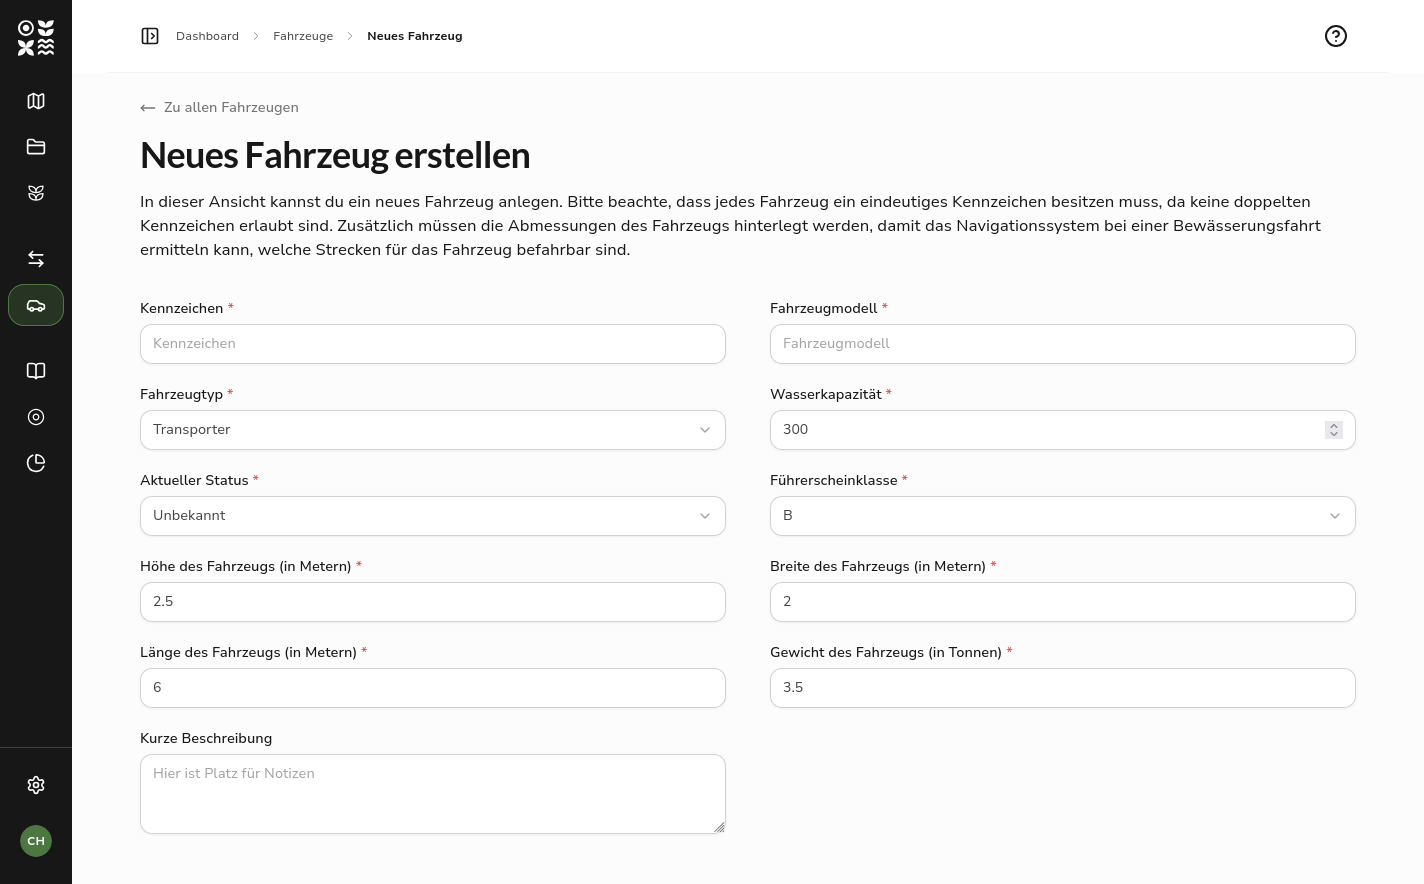
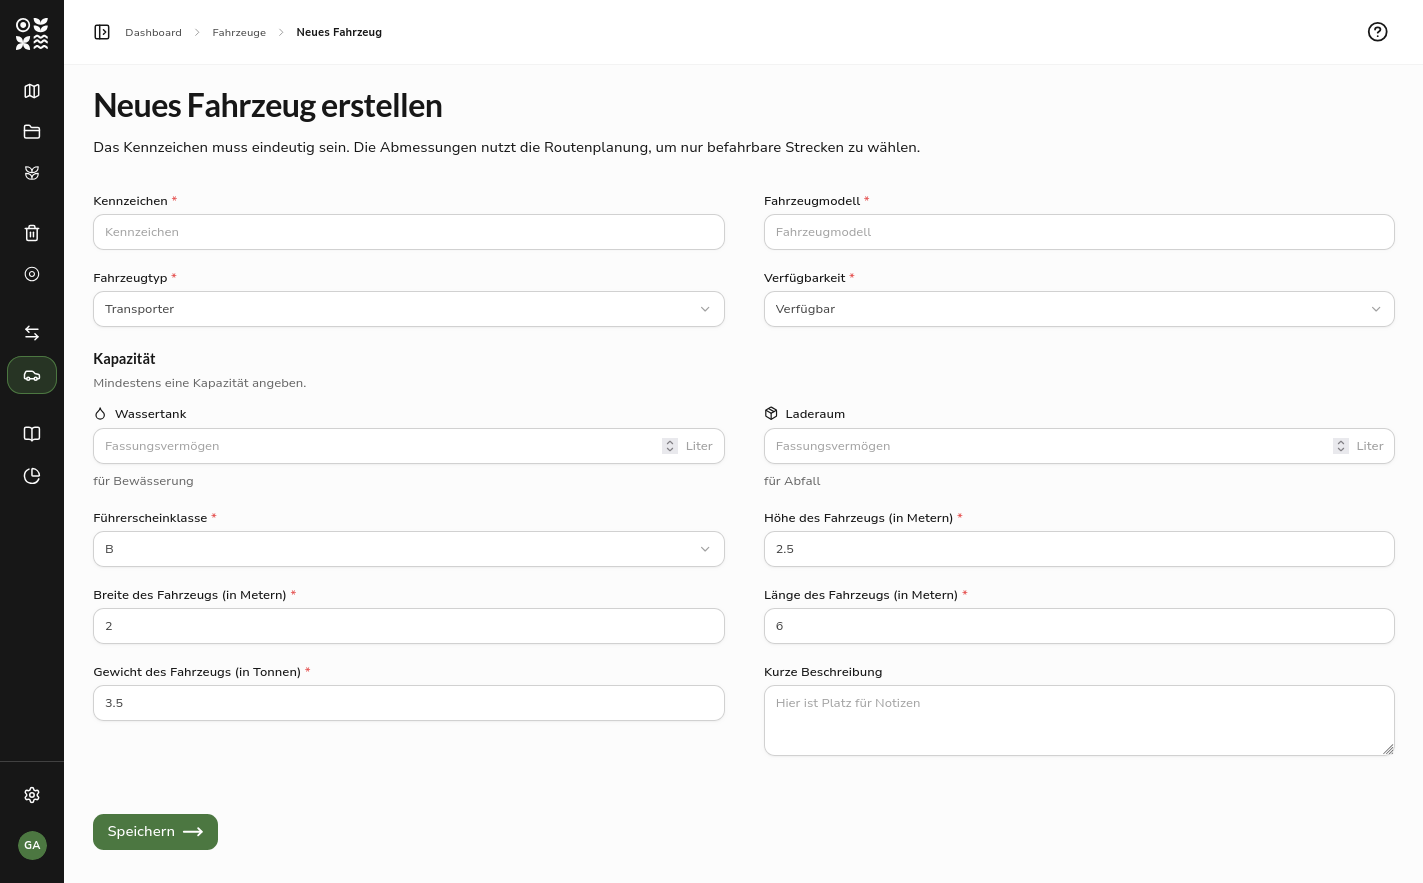
docs(handbook): re-shoot the vehicle form with capacities of the active modules

diff --git a/frontend/handbook/images/README.md b/frontend/handbook/images/README.md
@@ -105,12 +105,9 @@ be re-shot under the capture conditions above.
 - `dashboard.png`: while more than one module draws on the map or plans, the cards "Karte"
   and "Einsatzpläne" show the neutral core description instead of the irrigation wording.
   Re-shoot only if the capture instance has the waste module switched on.
-- `vehicle-form.png` shows water capacity as the only, required capacity with the old
-  default of 300 liters. The form now groups the capacities in a "Kapazität" section that
-  lists only the kinds of the modules active in the vehicle's organization (Wassertank and
-  Laderaum, each with a "Liter" suffix and a "für <Modul>" line); the fields start empty.
-  It needs a re-shoot. `settings-stations.png` and `settings-station-form.png` stay valid
-  as long as both modules are active in the captured organization.
+- `settings-stations.png` and `settings-station-form.png` stay valid as long as both
+  modules are active in the captured organization: the station dialog only offers the
+  capacity kinds of the modules active there.
 - `treecluster-dashboard.png` shows the old "Sensorik", "Bäume" and
   "Bewässerungshistorie" cards. All three are now compact divided lists: sensor rows with
   one line of signal, battery and last transmission, a tree list collapsed to three rows
@@ -147,7 +144,7 @@ be re-shot under the capture conditions above.
 | `waste-bin-detail.png`               | 1440×900  | Abfallbehälter und Leerungstouren (`waste-bins`)       | The detail page of a bin with a linked sensor and a measurement: "Stammdaten" and the "Füllstand" block with Füllstufe, percentage, last measurement, last emptying (here "Noch nicht geleert") and the sensor link filled in, the start of the comments below.                                                                                                                                                                                                                                                                                                                                                            |
 | `waste-plan-outcome.png`             | 1440×900  | Abfallbehälter und Leerungstouren (`waste-bins`)       | The finish dialog of an active collection tour with several bins, each with its "geleert" switch, at least one switched off, and the optional litres field filled in for one bin.                                                                                                                                                                                                                                                                                                                                                                                                                                          |
 | `vehicle-list.png`                   | 1440×900  | Fahrzeuge (`vehicles`)                                 | The vehicle list with a search term entered so the matches are highlighted and the result line reads "X von Y Sensoren"; the row shows the coloured status dot in front of the number plate (no status badge) and, at this width, the driving-licence class.                                                                                                                                                                                                                                                                                                                                                               |
-| `vehicle-form.png`                   | 1440×900  | Fahrzeuge (`vehicles`)                                 | The "Neues Fahrzeug erstellen" form filled in, in its two-column desktop layout, with the driving-licence class and the "Kapazität" section (Wassertank and Laderaum, both modules active) all visible and populated.                                                                                                                                                                                                                                                                                                                                                                                                      |
+| `vehicle-form.png`                   | 1440×900  | Fahrzeuge (`vehicles`)                                 | The empty "Neues Fahrzeug erstellen" form in its two-column desktop layout, for an organization with both modules active: the "Kapazität" section with Wassertank and Laderaum, each empty with its "Liter" suffix and "für <Modul>" line, and the driving-licence class all in frame.                                                                                                                                                                                                                                                                                                                                     |
 | `evaluations.png`                    | 1440×900  | Auswertung (`evaluations`)                             | The full "Auswertung aller Daten" page for an instance with real activity, so both number blocks and the per-district and per-vehicle listings show non-zero values. The figures come from finished watering plans only: an instance whose plans never reached Beendet shows zeros for water consumption and vehicle usage.                                                                                                                                                                                                                                                                                                |
 | `sensor-list.png`                    | 1440×900  | Sensoren im Blick behalten (`sensors`)                 | The sensor list on the **Aktiviert** tab, both tabs with their counts visible above the toolbar, a search term entered so the matches are highlighted and the result line reads "X von Y Sensoren"; all five filters visible, including **Gruppe**; the row shows the coloured status dot in front of the sensor ID (no status badge), the watering group of the linked tree for at least one sensor, and, at this width, the created-at date.                                                                                                                                                                             |
 | `sensor-wizard-qr.png`               | 900×1100  | Sensor einbauen und aktivieren (`sensor-installation`) | The activation wizard on its first step, the QR-scan screen, with the camera viewfinder visible (a paused/idle frame is fine — it does not need to catch an actual scan in progress).                                                                                                                                                                                                                                                                                                                                                                                                                                      |
